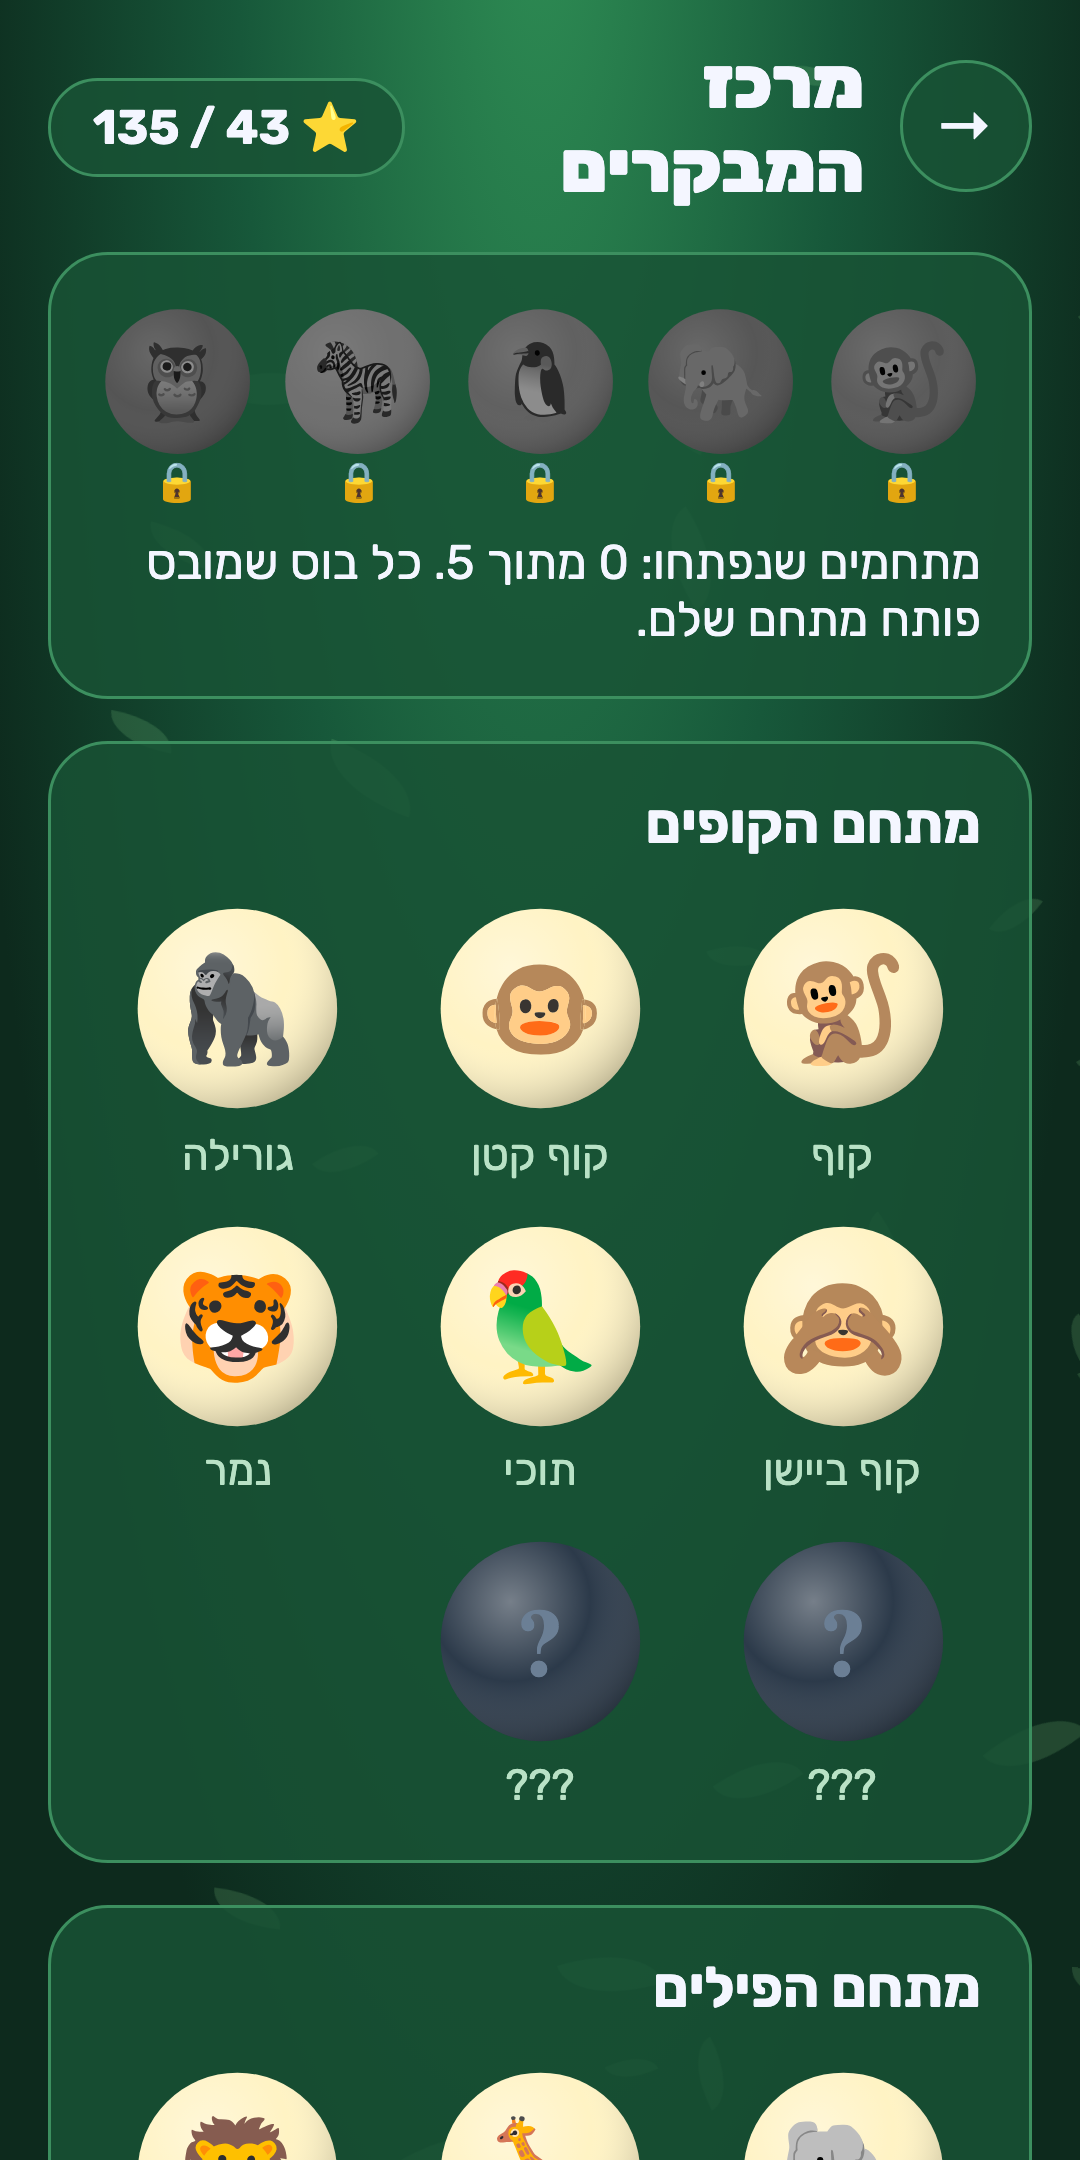
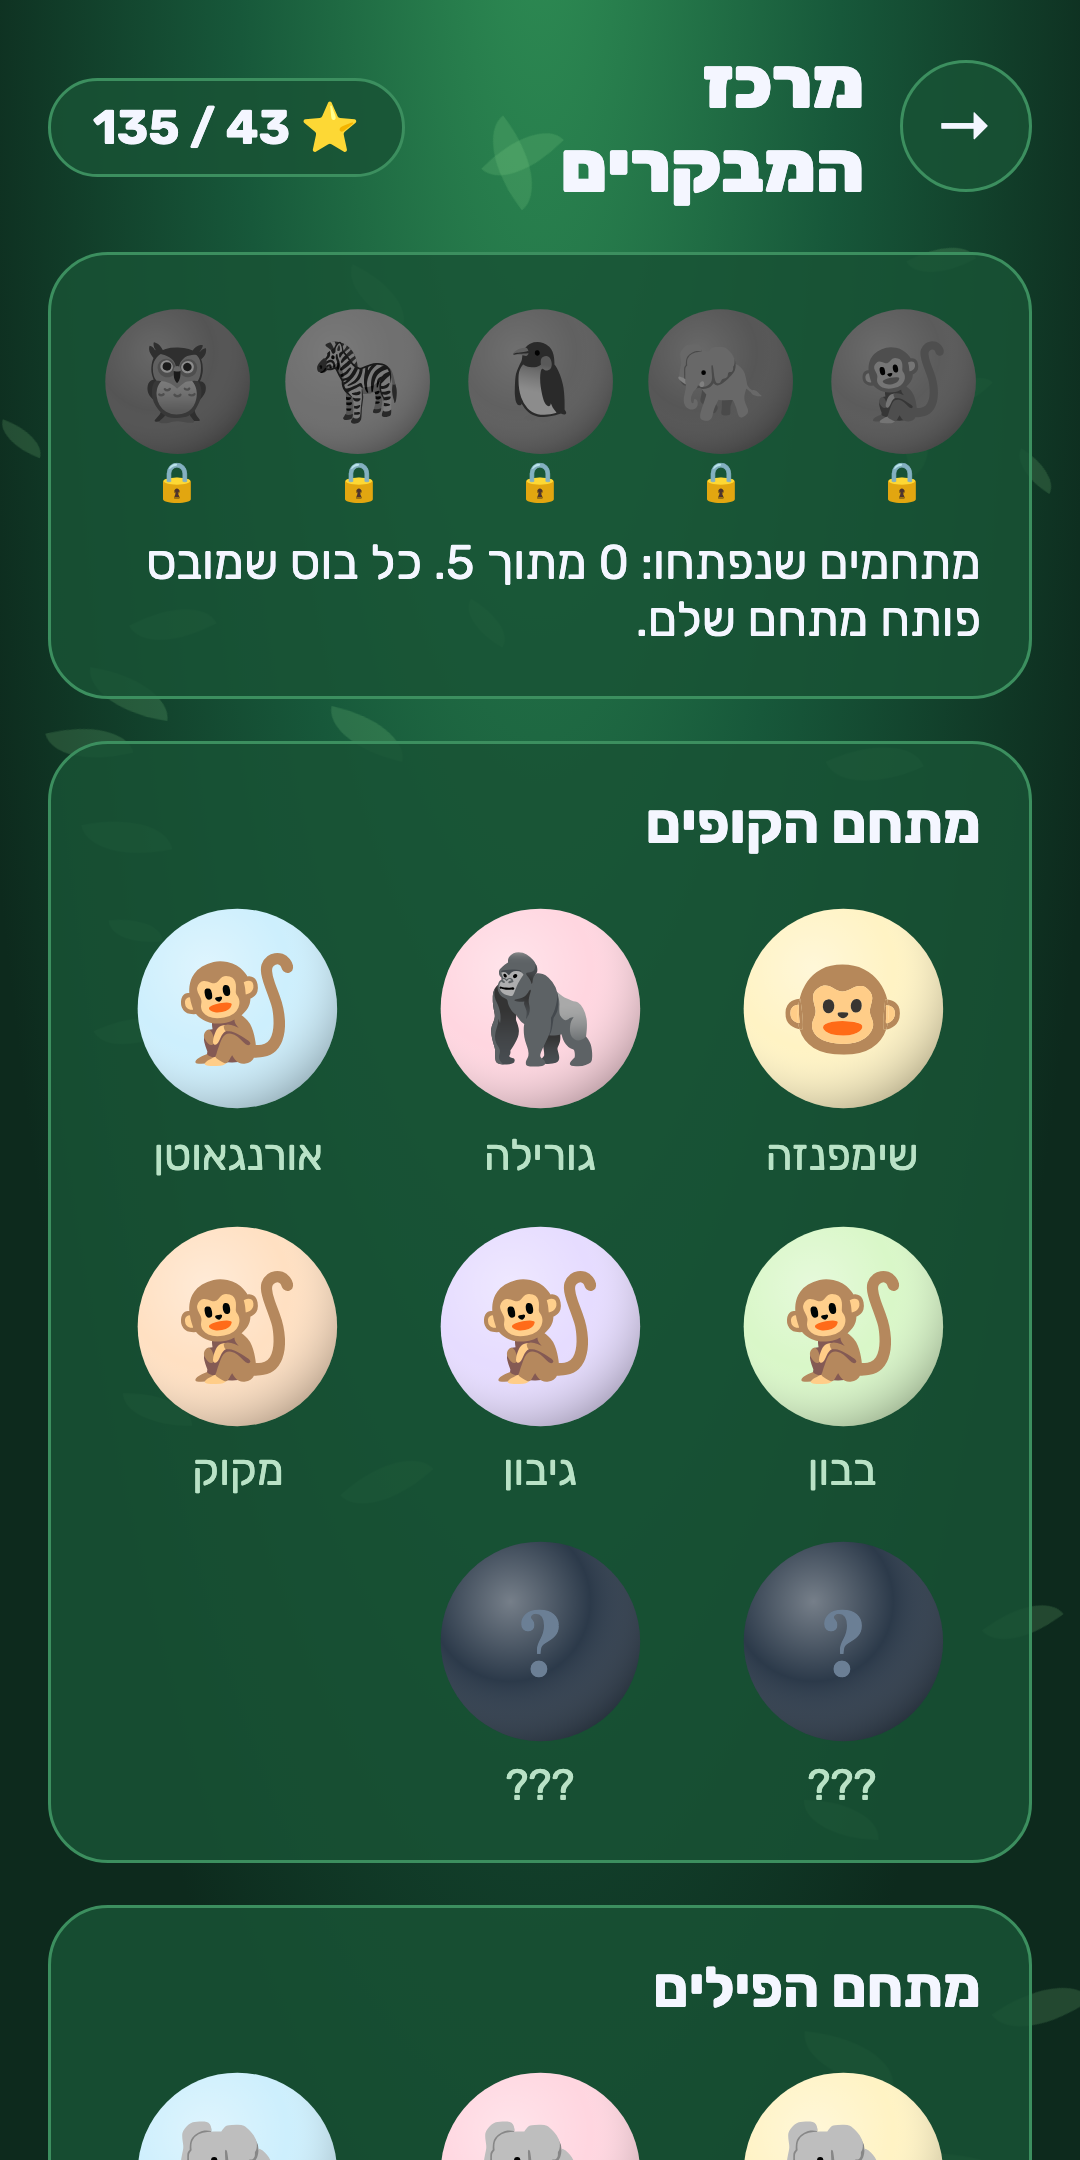
Free eight kinds of each enclosure's own animal
The monkeys' enclosure still freed a parrot, a tiger and a snake. Each enclosure now
frees eight kinds of the animal it is named after (chimpanzee, gorilla, baboon…;
emperor, king, Adélie penguin…). Emoji has one picture for most of them, so each kind
gets its own name and background colour.

diff --git a/public/js/games.js b/public/js/games.js
@@ -22,20 +22,22 @@ const decor = {
   lab: el => scatter(el, 22, () => `<i style="left:${r(0, 100)}%;--s:${r(8, 26)}px;animation-duration:${r(9, 20)}s;animation-delay:${r(-20, 0)}s"></i>`),
 };
 
-// Freed animals (zoo): each enclosure frees 8 animals that belong there, in the order of the zoo's
-// worlds (monkeys, elephants, penguins, zebras, owls). Emoji up to Unicode 11, so older phones show them.
+// Freed animals (zoo): each enclosure frees 8 kinds of the animal it is named after, in the order of
+// the zoo's worlds (monkeys, elephants, penguins, zebras, owls). Emoji has one picture for most of
+// them, so each kind gets its own name and its own background colour.
 const ANIMALS = [
-  // monkeys: monkeys and their jungle neighbours
-  ['🐒', 'קוף'], ['🐵', 'קוף קטן'], ['🦍', 'גורילה'], ['🙈', 'קוף ביישן'], ['🦜', 'תוכי'], ['🐯', 'נמר'], ['🐍', 'נחש'], ['🦎', 'לטאה'],
-  // elephants: the savanna
-  ['🐘', 'פיל'], ['🦒', 'ג׳ירפה'], ['🦁', 'אריה'], ['🦏', 'קרנף'], ['🦛', 'היפופוטם'], ['🐆', 'ברדלס'], ['🐃', 'תאו'], ['🐊', 'תנין'],
-  // penguins: ice and sea
-  ['🐧', 'פינגווין'], ['🐬', 'דולפין'], ['🐳', 'לווייתן'], ['🦈', 'כריש'], ['🐙', 'תמנון'], ['🦀', 'סרטן'], ['🐠', 'דג טרופי'], ['🐢', 'צב ים'],
-  // zebras: hoofed animals of the plains
-  ['🦓', 'זברה'], ['🐎', 'סוס'], ['🦌', 'אייל'], ['🐪', 'גמל'], ['🦙', 'לאמה'], ['🦘', 'קנגורו'], ['🐐', 'עז'], ['🐑', 'כבשה'],
-  // owls: birds
-  ['🦉', 'ינשוף'], ['🦅', 'עיט'], ['🦚', 'טווס'], ['🦢', 'ברבור'], ['🦆', 'ברווז'], ['🦃', 'תרנגול הודו'], ['🐓', 'תרנגול'], ['🐤', 'אפרוח'],
+  // monkeys and apes
+  ['🐵', 'שימפנזה'], ['🦍', 'גורילה'], ['🐒', 'אורנגאוטן'], ['🐒', 'בבון'], ['🐒', 'גיבון'], ['🐒', 'מקוק'], ['🐒', 'קוף עכביש'], ['🐒', 'קוף קפוצ׳ין'],
+  // elephants
+  ['🐘', 'פיל אפריקאי'], ['🐘', 'פיל יער אפריקאי'], ['🐘', 'פיל אסייתי'], ['🐘', 'פיל הודי'], ['🐘', 'פיל סרי לנקה'], ['🐘', 'פיל סומטרה'], ['🐘', 'פיל בורנאו הגמד'], ['🐘', 'פילון'],
+  // penguins
+  ['🐧', 'פינגווין קיסרי'], ['🐧', 'פינגווין מלכותי'], ['🐧', 'פינגווין אדלי'], ['🐧', 'פינגווין ג׳נטו'], ['🐧', 'פינגווין מקרוני'], ['🐧', 'פינגווין אפריקאי'], ['🐧', 'פינגווין גלפגוס'], ['🐧', 'פינגווין גמדי'],
+  // zebras
+  ['🦓', 'זברת מישורים'], ['🦓', 'זברת גרנט'], ['🦓', 'זברת צ׳פמן'], ['🦓', 'זברת בורצ׳ל'], ['🦓', 'זברת גרווי'], ['🦓', 'זברת הרים'], ['🦓', 'זברת הכף'], ['🦓', 'סייח זברה'],
+  // owls
+  ['🦉', 'ינשוף שלג'], ['🦉', 'תנשמת'], ['🦉', 'אוח עיטי'], ['🦉', 'לילית'], ['🦉', 'ינשוף עציים'], ['🦉', 'ינשוף שדות'], ['🦉', 'ינשוף מדבר'], ['🦉', 'שעיר'],
 ];
+const ANIMAL_BG = ['#fff3c4', '#ffd6e0', '#cdeffd', '#d9f7c8', '#e6dcff', '#ffe0c2', '#c9f2ec', '#f6d6f7'];
 
 // Discovered elements (lab): the first 40 of the periodic table.
 const ELEMENTS = [
@@ -67,7 +69,9 @@ export const GAMES = [
     ],
     storyBtn: 'פותחים את השער!',
     hub: { name: 'מרכז המבקרים', btn: '🎟 מרכז המבקרים' },
-    prize: i => ({ art: badge(ANIMALS[i % ANIMALS.length][0], '#fff3c4'), name: ANIMALS[i % ANIMALS.length][1] }),
+    // the boss fight: the enclosure's animal throws its favourite thing at the accountant
+    fighter: w => ({ hero: `<span class="bt-emoji">${w.icon}</span>`, shot: { zadd: '🍌', zmul: '💦', zfrac: '🐟', zgeo: '🥕', zpuz: '⭐' }[w.id] || '⭐' }),
+    prize: i => ({ art: badge(ANIMALS[i % ANIMALS.length][0], ANIMAL_BG[i % 8]), name: ANIMALS[i % ANIMALS.length][1] }),
     lockedPrize: () => badge('', '', true),
     prizeLine: name => `שחררתם חיה חדשה: ${name}! היא מחכה לכם במרכז המבקרים.`,
     bossLine: w => `${w.boss} הובס! ${w.name} פתוח לגמרי.`,
@@ -86,6 +90,8 @@ export const GAMES = [
     ],
     storyBtn: 'יוצאים לדרך!',
     hub: { name: 'תחנת החלל', btn: '🚀 תחנת החלל' },
+    // the boss fight: the ship, with the upgrades earned so far, fires its laser
+    fighter: (w, done) => ({ hero: `<div class="bt-ship">${ship(done)}</div>`, shot: null }),
     prize: i => ({ art: alien(i), name: alienName(i) }),
     lockedPrize: i => alien(i, true),
     prizeLine: name => `שחררתם את ${name}! מחכה לכם בתחנת החלל.`,
@@ -106,6 +112,8 @@ export const GAMES = [
     ],
     storyBtn: 'לובשים חלוק ומתחילים!',
     hub: { name: 'ארון הציוד', btn: '🔬 ארון הציוד' },
+    // the boss fight: the lab's instrument shoots sparks at the accountant
+    fighter: w => ({ hero: `<span class="bt-emoji">${w.icon}</span>`, shot: '✨' }),
     prize: i => ({ art: element(i), name: ELEMENTS[i % ELEMENTS.length][1] }),
     lockedPrize: i => element(i, true),
     prizeLine: name => `גיליתם יסוד חדש: ${name}! הוא נוסף לטבלה בארון הציוד.`,
